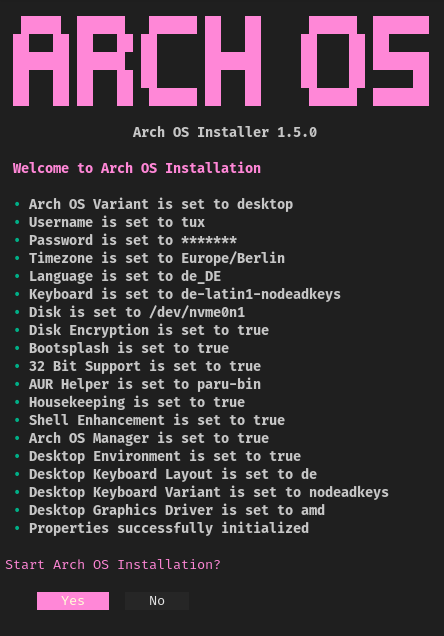
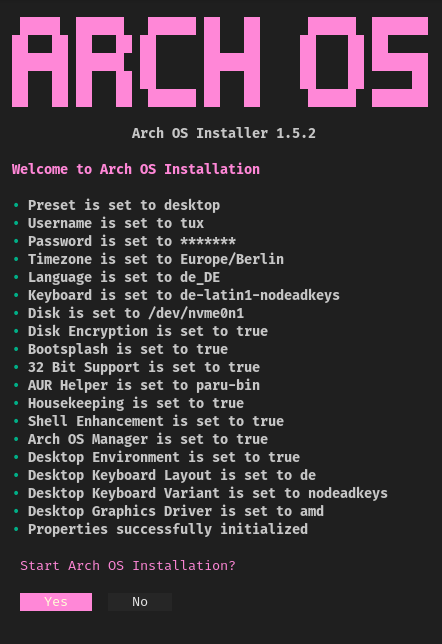
1.5.2
* Presets

diff --git a/docs/README.md b/docs/README.md
@@ -35,7 +35,7 @@ This project aims to provide a robust Arch Linux base for desktop usage, along w
 <p>
   <strong>Test successful</strong>
   <br>
-  <a target="_blank" href="https://www.archlinux.de/releases/2024.04.01">archlinux-2024.04.01-x86_64.iso</a>
+  <a target="_blank" href="https://www.archlinux.de/releases/2024.05.01">archlinux-2024.05.01-x86_64.iso</a>
   <br>
   <sub>100% shellcheck approved</sub>
 </p>
